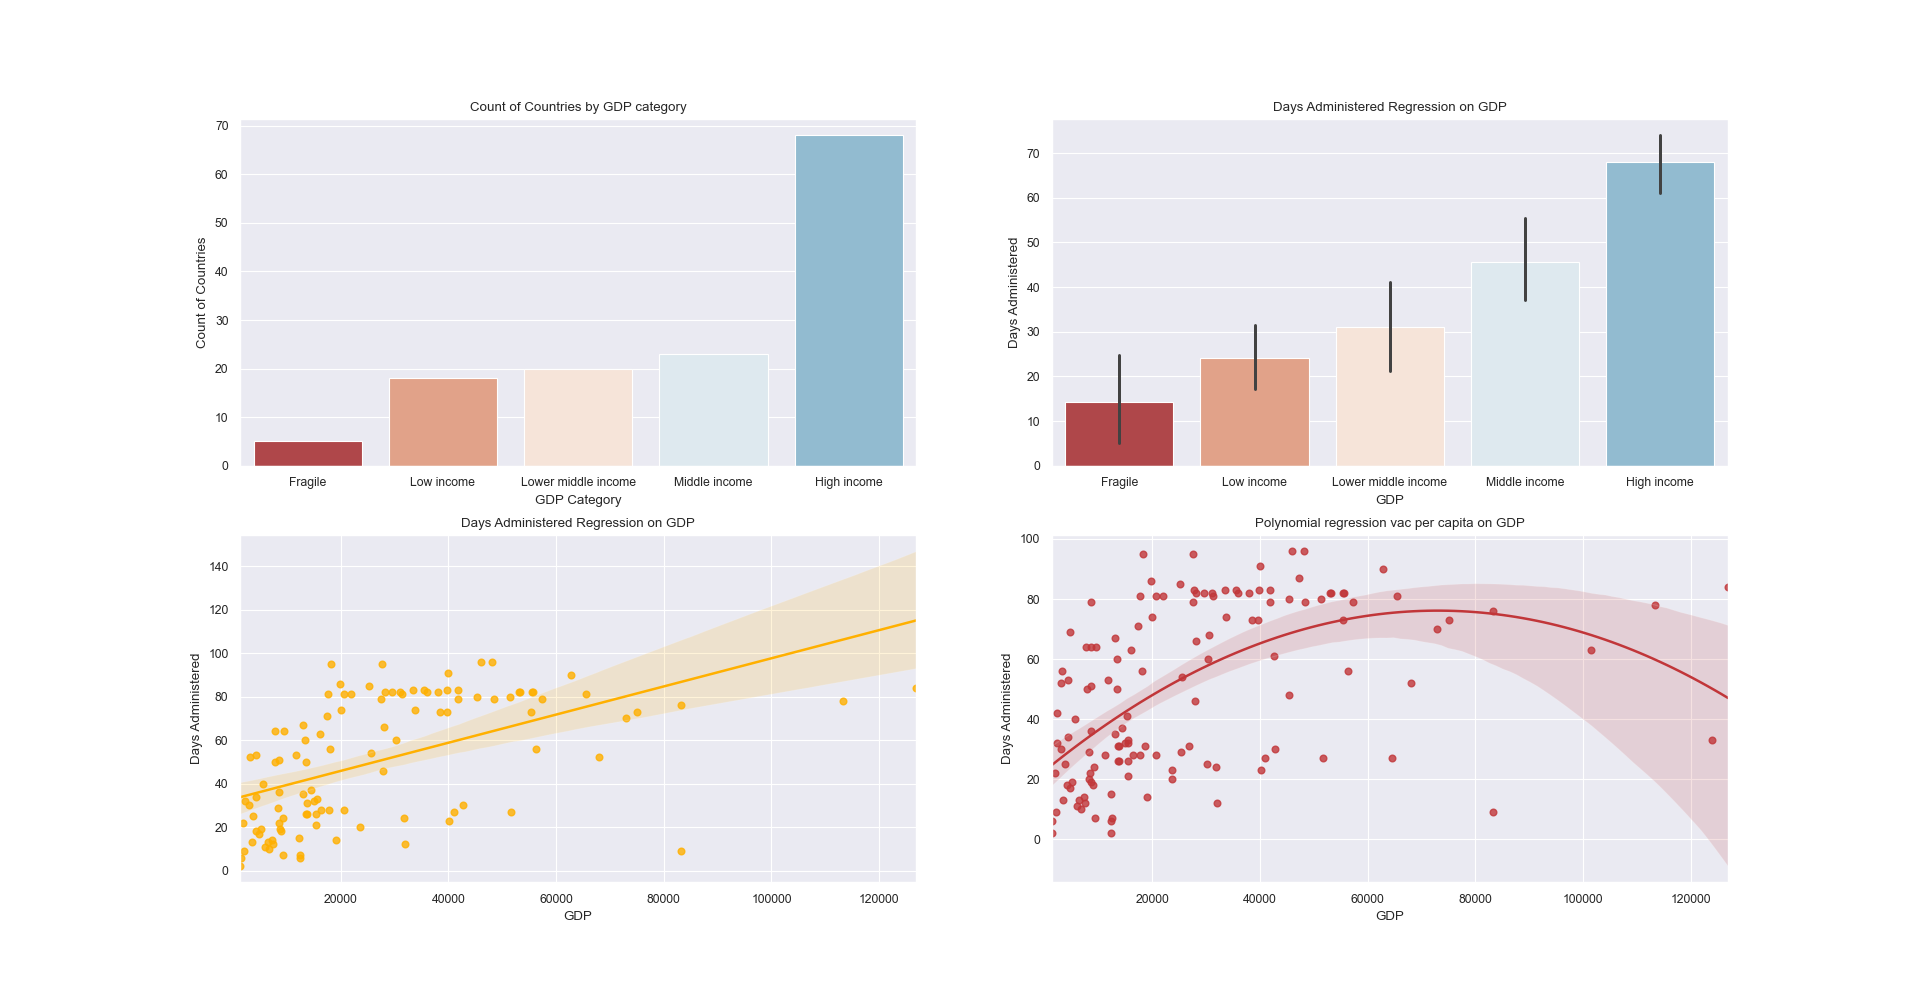
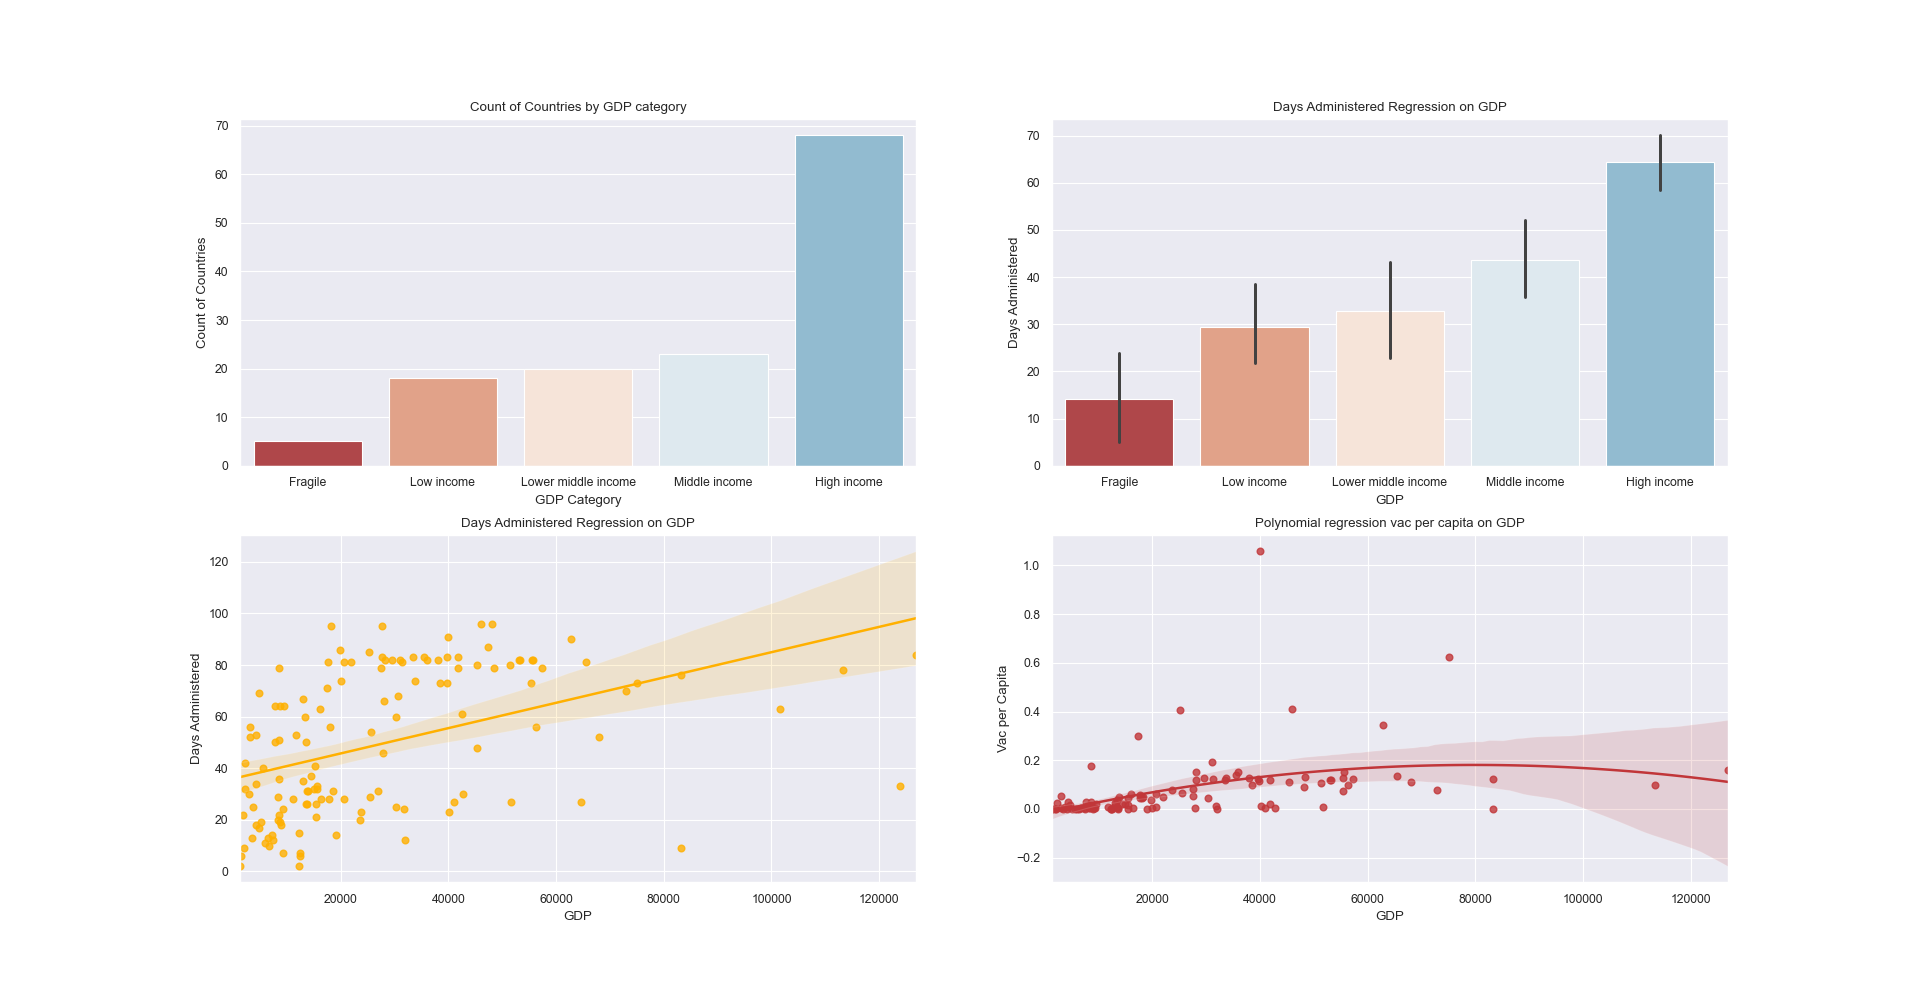
Fig 2 created bokeh visual

diff --git a/UCDA-Derek_Baker.py b/UCDA-Derek_Baker.py
@@ -145,6 +145,8 @@ cv_gdp_pop_geo.drop(["Country_x", "Country Code", "Country_y"], axis="columns", 
 #  Add a column to get vaccines per capita
 cv_gdp_pop_geo["Vac_per_Capita"] = cv_gdp_pop_geo["Daily_Sum"] / cv_gdp_pop_geo["Population"]
 
+
+
 # Convert cv_gdp_pop_geo to a Geodataframe
 geo_cv_gdp_pop_loc = gpd.GeoDataFrame(cv_gdp_pop_geo, crs="EPSG:4326", geometry=cv_gdp_pop_geo["geometry"])
 
@@ -186,15 +188,21 @@ print(total_daily_vac)
 # Check how many counties had recorded vaccinations
 print(len(cv_df_grp))
 
+
 ## Create risk factor analysis
 # Risk factor
-cv_gdp_pop_geo["Risk Factor"] = cv_gdp_pop_geo["Population"] * cv_gdp_pop_geo["Density"] / 1000000000
+cv_gdp_pop_geo["Risk_Factor"] = cv_gdp_pop_geo["Population"] * cv_gdp_pop_geo["Density"] / 1000000000
 # Current risk factor - Going with the assumption that two vaccine doses are needed, I divide vac_per_capita by 2
 cv_gdp_pop_geo["Current_Risk_Factor"] = cv_gdp_pop_geo["Risk_Factor"] * (1 - (cv_gdp_pop_geo["Vac_per_Capita"]/2))
 # Risk reduced by
-cv_gdp_pop_geo["Risk_ Factor_Reduced"] = 1 - cv_gdp_pop_geo["Current_Risk_Factor"] / cv_gdp_pop_geo["Risk_Factor"]
+cv_gdp_pop_geo["Risk_Factor_Reduced"] = 1 - cv_gdp_pop_geo["Current_Risk_Factor"] / cv_gdp_pop_geo["Risk_Factor"]
 
-
+# Add the risk analysis to cv_gdp_pop_loc for bokeh analysis
+cv_gdp_pop_loc["Risk_Factor"] = cv_gdp_pop_loc["Population"] * cv_gdp_pop_loc["Density"] / 1000000000
+# Current risk factor - Going with the assumption that two vaccine doses are needed, I divide vac_per_capita by 2
+cv_gdp_pop_loc["Current_Risk_Factor"] = cv_gdp_pop_loc["Risk_Factor"] * (1 - (cv_gdp_pop_loc["Vac_per_Capita"]/2))
+# Risk reduced by
+cv_gdp_pop_loc["Risk_Factor_Reduced"] = 1 - cv_gdp_pop_loc["Current_Risk_Factor"] / cv_gdp_pop_loc["Risk_Factor"]
 ###########################################
 #  Visualisations #
 ###########################################
@@ -207,9 +215,8 @@ import matplotlib.pyplot as plt
 GDP_Cat_order=["Fragile", "Low income", "Lower middle income", "Middle income", "High income"]
 
 ###########################################
-## Fig. 1 ##
+## Fig. 1 ## Matplotlib and seaborn
 ###########################################
-
 
 # Simple Seaborn Count plot showing days administered by GDP category
 plt.subplot(2, 2, 1)
@@ -220,20 +227,69 @@ plt.xlabel("GDP Category")
 plt.ylabel("Count of Countries")
 # Activate the middle subplot
 plt.subplot(2, 2, 2)
-sns.barplot(x="GDP_Category", y="Days_Administered", data=cv_gdp_pop_geo, order=GDP_Cat_order)
+sns.barplot(x="GDP_Category", y="Days_Administered", data=cv_gdp, order=GDP_Cat_order)
 plt.title('Days Administered Regression on GDP')
 plt.xlabel('GDP')
 plt.ylabel("Days Administered")
 # Activate the bottom subplot
 plt.subplot(2, 2, 3)
-sns.regplot(x="GDP", y="Days_Administered", data=cv_gdp_pop_geo, color="#FFB000")
+sns.regplot(x="GDP", y="Days_Administered", data=cv_gdp, color="#FFB000")
 plt.title('Days Administered Regression on GDP')
 plt.xlabel('GDP')
 plt.ylabel("Days Administered")
 # Polynomial regression
 plt.subplot(2, 2, 4)
-sns.regplot(data=cv_gdp, x="GDP", y="Days_Administered", order=2)
+sns.regplot(data=cv_gdp_pop_geo, x="GDP", y="Vac_per_Capita", order=2)
 plt.title("Polynomial regression vac per capita on GDP")
 plt.xlabel("GDP")
-plt.ylabel("Days Administered")
+plt.ylabel("Vac per Capita")
 plt.show()
+
+###########################################
+## Fig. 2 ## bokeh
+###########################################
+
+# Bokeh - try to add Select menu into this model p280+
+# Import bokeh tools #
+from bokeh.plotting import figure
+from bokeh.io import output_file, show, curdoc, output_notebook
+from bokeh.plotting import figure, ColumnDataSource
+from bokeh.layouts import row, column, widgetbox
+from bokeh.models import CategoricalColorMapper, Slider, Select, HoverTool
+
+# Create figure one with x axis type set as datetime #
+p1 = figure(x_axis_type="datetime", x_axis_label='Date', y_axis_label='Vaccinations',
+            tools=["box_select", "crosshair", "pan", "wheel_zoom"])
+
+# Plot date along the x axis and vaccinations along the y axis
+p1.line(total_daily_vac.index, total_daily_vac["daily_vaccinations"])
+hover1 = HoverTool(tooltips=None, mode="hline")
+p1.add_tools(hover1)
+
+# Create the second figure #
+# Convert cv_gdp_pop_loc to a ColumnDataSource: source
+source = ColumnDataSource(cv_gdp_pop_loc)
+
+# Make a CategoricalColorMapper object: color_mapper
+color_mapper = CategoricalColorMapper(
+    factors=["Fragile", "Low income", "Lower middle income", "Middle income", "High income"],
+    palette=["red", "orange", "blue", "green", "yellow"])
+
+p2 = figure(tools=["box_select", "pan", "wheel_zoom"], x_axis_label='GDP', y_axis_label='Current Risk Factor')
+# Plot vaccinations along the x axis and density along the y axis
+p2.circle("GDP", "Current_Risk_Factor", selection_color="black", source=source,
+          nonselection_alpha=0.1, color=dict(field='GDP_Category', transform=color_mapper))
+# Create and add the hover tool for the second visual
+hover2 = HoverTool(tooltips=[("name", "@name"),
+                             ("GDP_Category", "@GDP_Category"),
+                             ("Risk_Factor", "@Risk_Factor"),
+                             ("Current_Risk_Factor", "@Current_Risk_Factor"),
+                             ("Risk_Factor_Reduced", "@Risk_Factor_Reduced")])
+p2.add_tools(hover2)
+
+# Create the third figure #
+p3 = figure(tools=["box_select", "pan", "wheel_zoom"], x_axis_label='GDP', y_axis_label='Risk Factor Reduced')
+# Plot date along the x axis and vaccinations along the y axis
+p3.circle("GDP", "Risk_Factor_Reduced",  selection_color="black", source=source,
+          nonselection_alpha=0.1, color=dict(field='GDP_Category', transform=color_mapper),
+          legend_group="GDP_Category")
